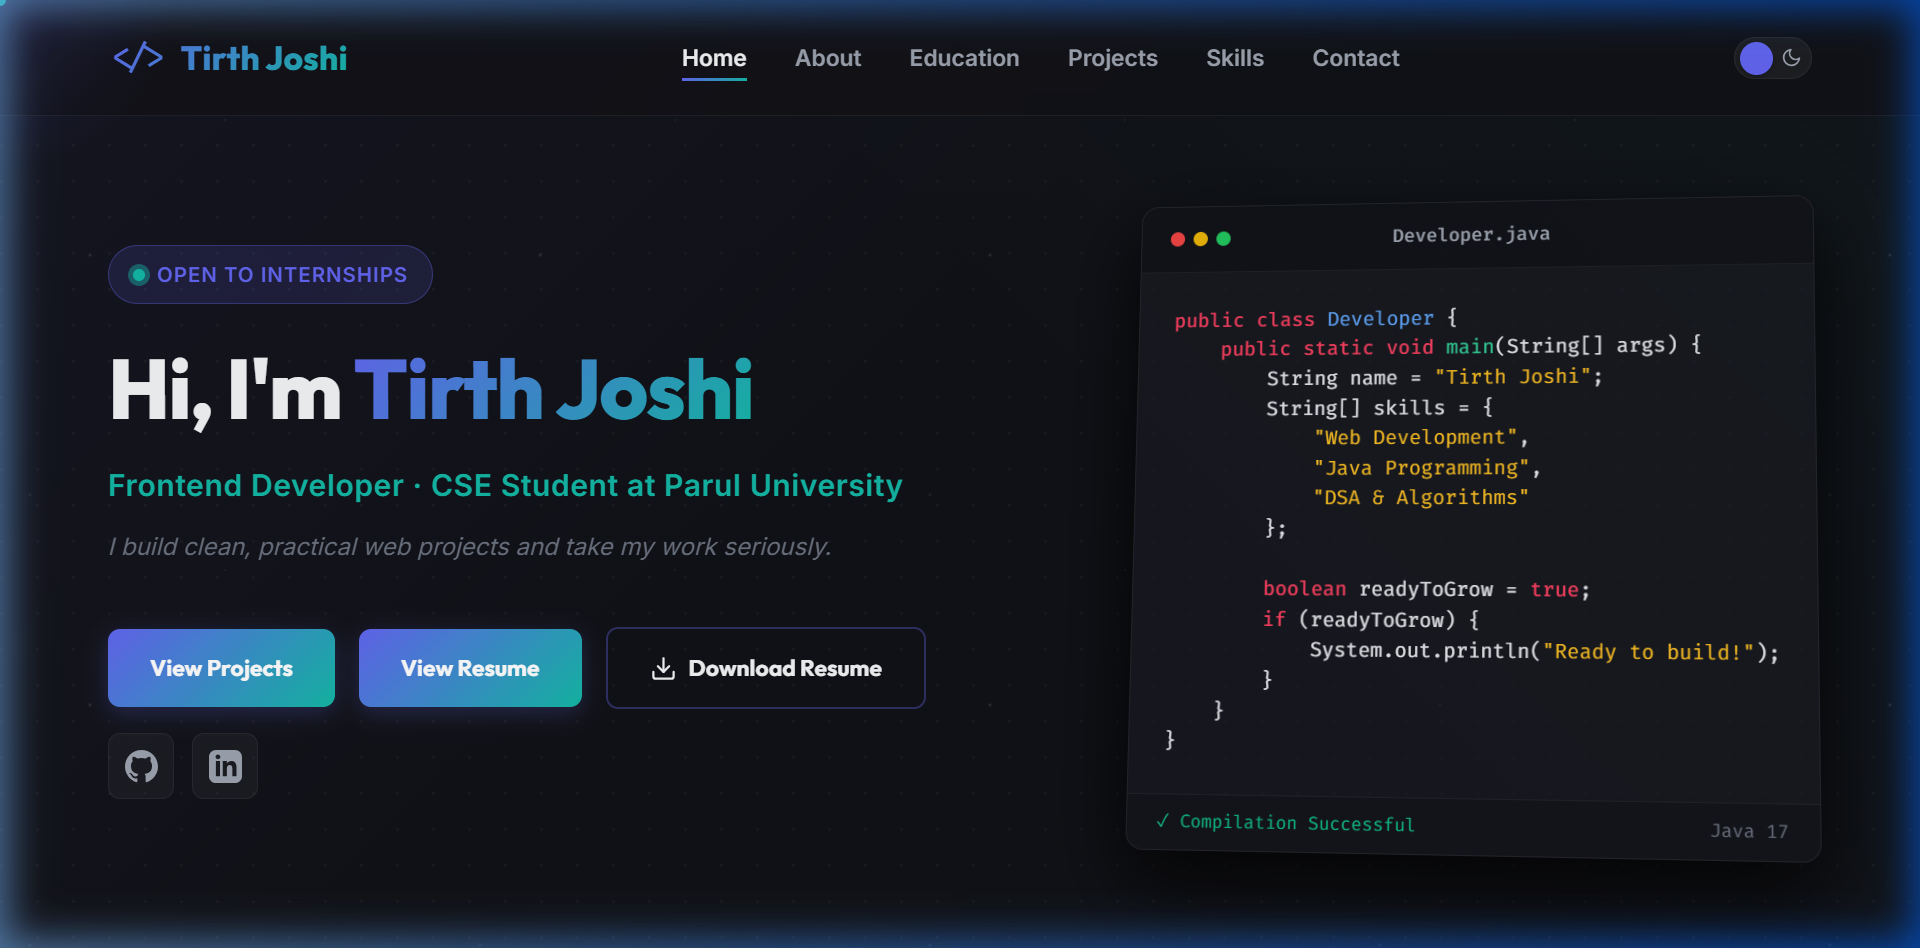
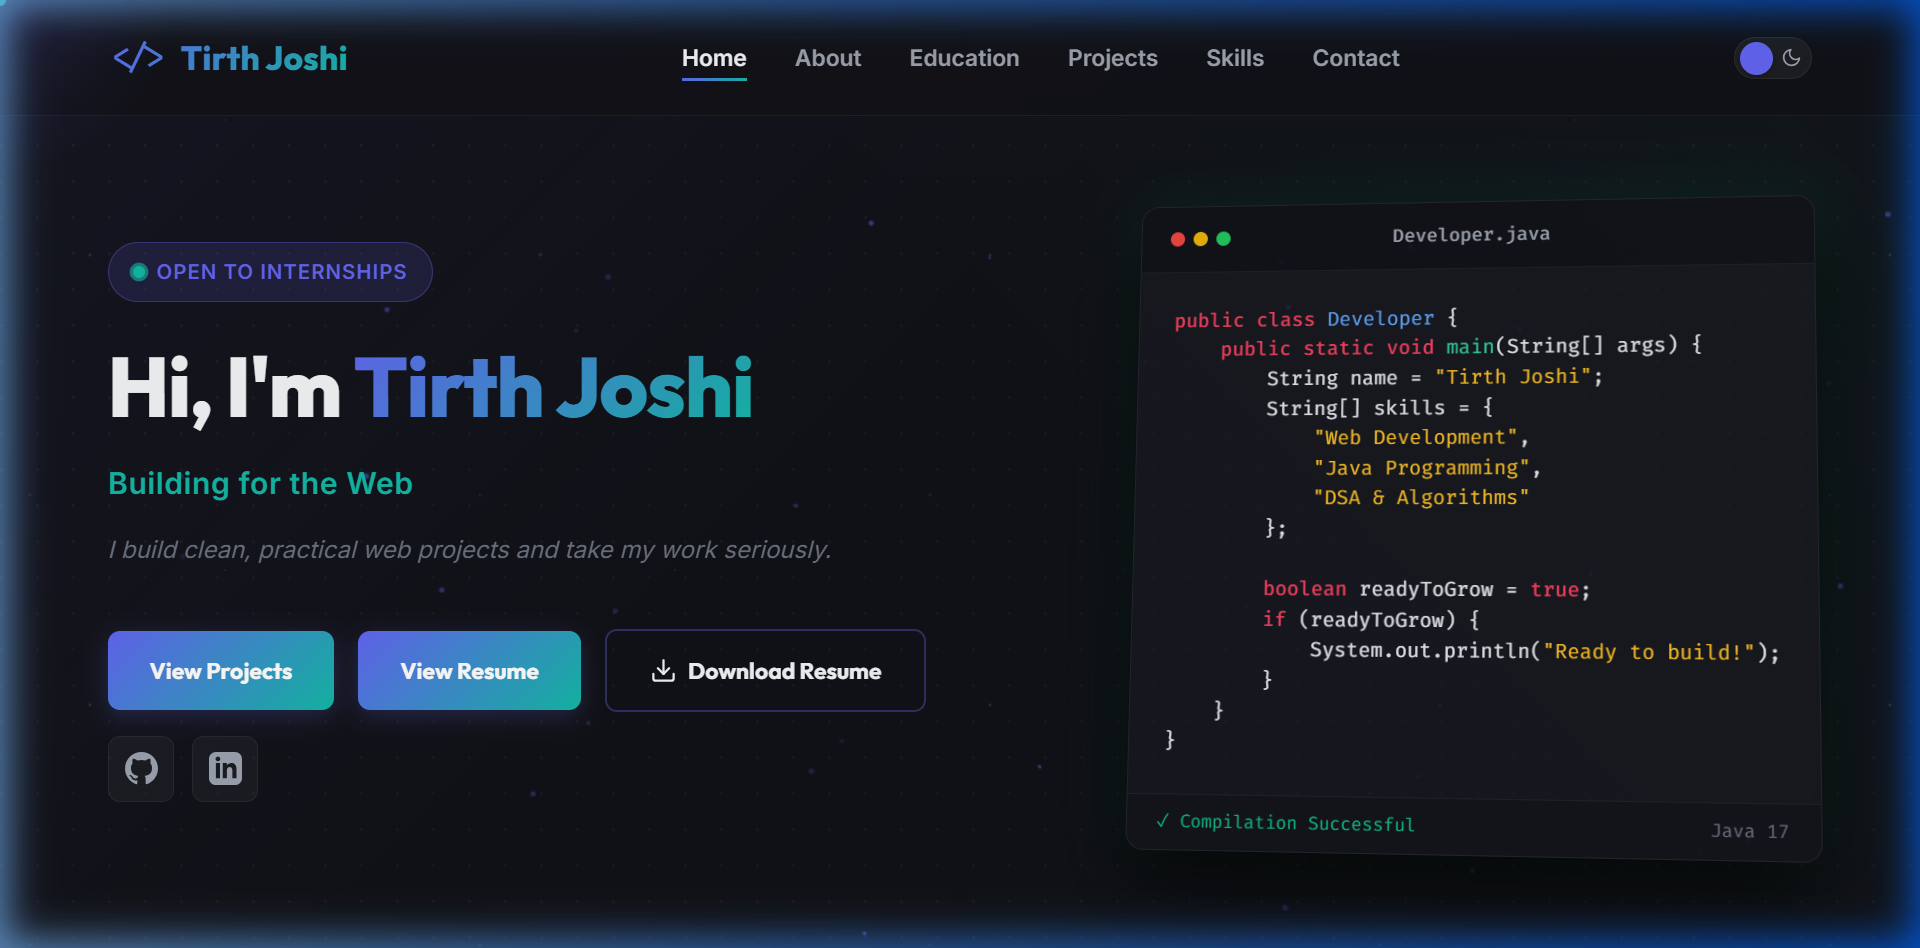
docs: improve GitHub README to be recruiter-friendly with Vercel links and correct preview screenshot

diff --git a/README.md b/README.md
@@ -1,52 +1,90 @@
-# Tirth Joshi — Portfolio Website
+# Tirth Joshi | Frontend Developer & CSE Student Portfolio
 
-Personal developer portfolio built with HTML, CSS, and JavaScript.
+Personal developer portfolio website presenting clean frontend engineering, responsive design practices, and academic highlights.
 
-**Live:** [https://tirth-joshi-portfolio.vercel.app](https://tirth-joshi-portfolio.vercel.app)  
-**Author:** Tirth Joshi — B.Tech CSE, Parul University
-
----
-
-## Preview
-
-![Portfolio Screenshot](screenshot.png)
+**Live Demo:** [https://tirth-joshi-portfolio.vercel.app](https://tirth-joshi-portfolio.vercel.app)
 
 ---
 
-## Tech Stack
+## 📷 Preview
 
-HTML5 · CSS3 · JavaScript · Vercel
-
----
-
-## Projects Showcased
-
-### Laundry Management System
-Web-based booking and order tracking system for laundry services.  
-Stack: HTML, CSS, JavaScript  
-Status: In Progress
-
-### Portfolio Website
-This portfolio. Personal developer showcase, deployed on Vercel.  
-Stack: HTML, CSS, JavaScript  
-Live: [https://tirth-joshi-portfolio.vercel.app](https://tirth-joshi-portfolio.vercel.app)
+![Portfolio Screenshot](./screenshot.png)
 
 ---
 
-## Run Locally
+## 💡 About the Project
 
-Clone the repo and open `index.html` in any browser:
+This portfolio is a custom-built, modern personal hub designed to show my skills, projects, and academic background as a Computer Science & Engineering student. It emphasizes rich micro-interactions, clean layout architecture, and high performance without relying on heavy external frontend frameworks or utility CSS packages.
+
+---
+
+## ✨ Features
+
+- **Interactive Code Card:** A simulated IDE terminal card that types out Java code dynamically on page load, followed by a compilation success state.
+- **Typewriter Role Subtitle:** An animated, rotating subtitle that types out key professional roles and titles.
+- **Ambient Canvas Background:** A lightweight floating particle constellation in the hero section that adjusts based on screen size (automatically disabled on mobile and under `prefers-reduced-motion`).
+- **Smooth Theme Toggle:** Effortless transitions between custom premium dark (obsidian/indigo) and light themes with preference persistence in `localStorage`.
+- **Staggered Scroll Reveals:** Clean entrance fade-and-slide animations with 120ms staggered delays for cards, list items, and sections.
+- **Compact Sticky Navbar:** A glassmorphic navbar that smoothly compacts and casts a shadow when scrolled.
+- **Interactive Project Modals:** Custom modal system for detailed project descriptions, tags, and action buttons.
+- **AJAX Contact Form:** Functional contact page integrated with Web3Forms API to send messages directly to my email with toast feedback notifications.
+- **Responsive Layout:** Pixel-perfect adaptive styling down to a 375px breakpoint (iPhone SE / small viewports).
+- **Custom Interactive Cursor:** Custom desktop-only cursor circle with a trailing light glow.
+- **Performance & Accessibility Polish:** Respects system `prefers-reduced-motion` settings, implements CSS `will-change` layer optimizations, utilizes semantic HTML layout structure, and loads images lazily.
+
+---
+
+## 🛠 Tech Stack
+
+- **Structure:** HTML5 (Semantic elements, accessible structures)
+- **Styling:** Vanilla CSS3 (Custom properties, grid layouts, flexbox, keyframes, transitions)
+- **Logic:** Vanilla JavaScript (ES6+, DOM Manipulation, Intersection Observer, Canvas API, Fetch API)
+- **Forms:** Web3Forms API (Fetch-based form submission)
+- **Hosting:** Vercel
+
+---
+
+## 📂 Sections Included
+
+1. **Hero / Home:** Introduction card, typewriter subtitle, interactive Java IDE preview, resume quick actions, and inline social buttons.
+2. **About:** Narrative introduction highlighting B.Tech CSE details and diploma engineering lateral-entry transition.
+3. **Education:** Interactive academic timeline detailing the timeline, institute, and focus areas at Parul University.
+4. **Selected Projects:** Cards presenting personal projects with customized gradient headers and details modal action links.
+5. **Technical Skillset:** Staggered categorization cards (Frontend, Languages, Tools & Platforms) displaying tools and active learning areas (Node.js, MongoDB).
+6. **Contact / Connect:** Direct message input form with toast status responses and inline clickable social detail boxes.
+
+---
+
+## 🚀 Run Locally
+
+Clone the repository and run the page locally:
 
 ```bash
+# Clone the repository
 git clone https://github.com/Tirth-67/tirth-joshi-portfolio.git
+
+# Navigate into the project folder
 cd tirth-joshi-portfolio
-open index.html
+
+# Open index.html directly in a browser
+# Or run with a local server (recommended for resource loading)
+npx http-server -p 8080
 ```
 
 ---
 
-## Contact
+## 🎯 Project Purpose
 
-Email: joshitirth2310@gmail.com  
-LinkedIn: [https://www.linkedin.com/in/tirth-joshi-ab0537308/](https://www.linkedin.com/in/tirth-joshi-ab0537308/)  
-GitHub: [https://github.com/Tirth-67](https://github.com/Tirth-67)
+This project acts as a professional check-in point for engineering reviewers, recruiters, and team leaders to verify:
+- Code cleanliness and directory organization.
+- Implementation of modern CSS styling and responsive layouts without framework assistance.
+- Dynamic DOM scripting, animation handling, and external API routing.
+
+---
+
+## ✉ Contact & Links
+
+- **Email:** [joshitirth2310@gmail.com](mailto:joshitirth2310@gmail.com)
+- **LinkedIn:** [Tirth Joshi](https://www.linkedin.com/in/tirth-joshi-ab0537308/)
+- **LeetCode:** [Tirth_17](https://leetcode.com/u/Tirth_17)
+- **GitHub Profile:** [Tirth-67](https://github.com/Tirth-67)
